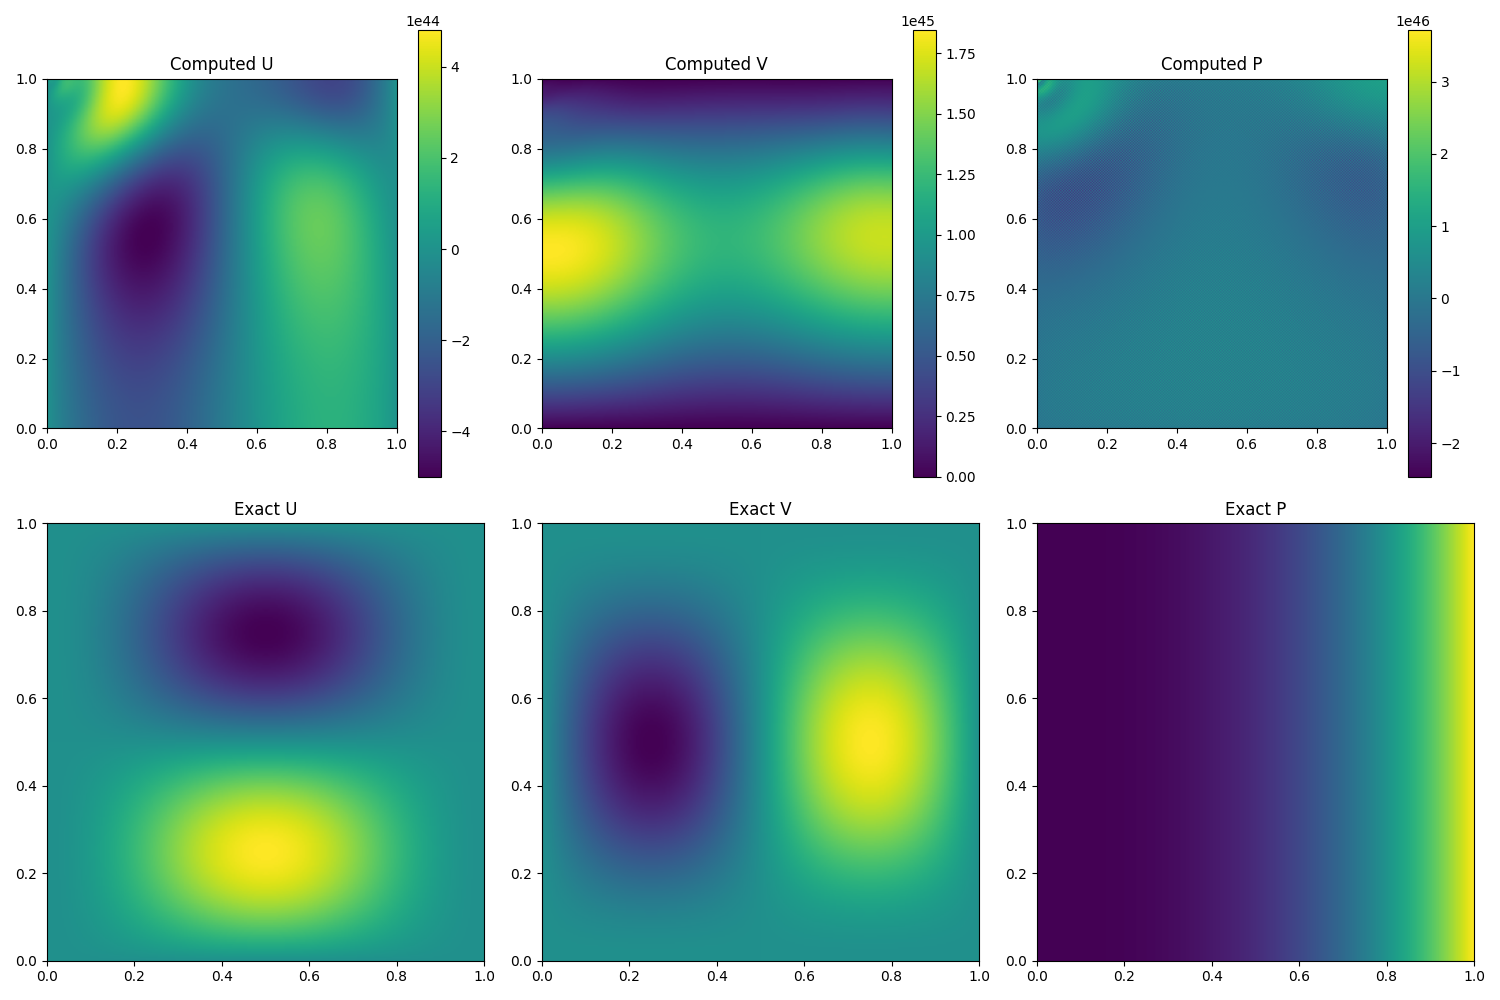
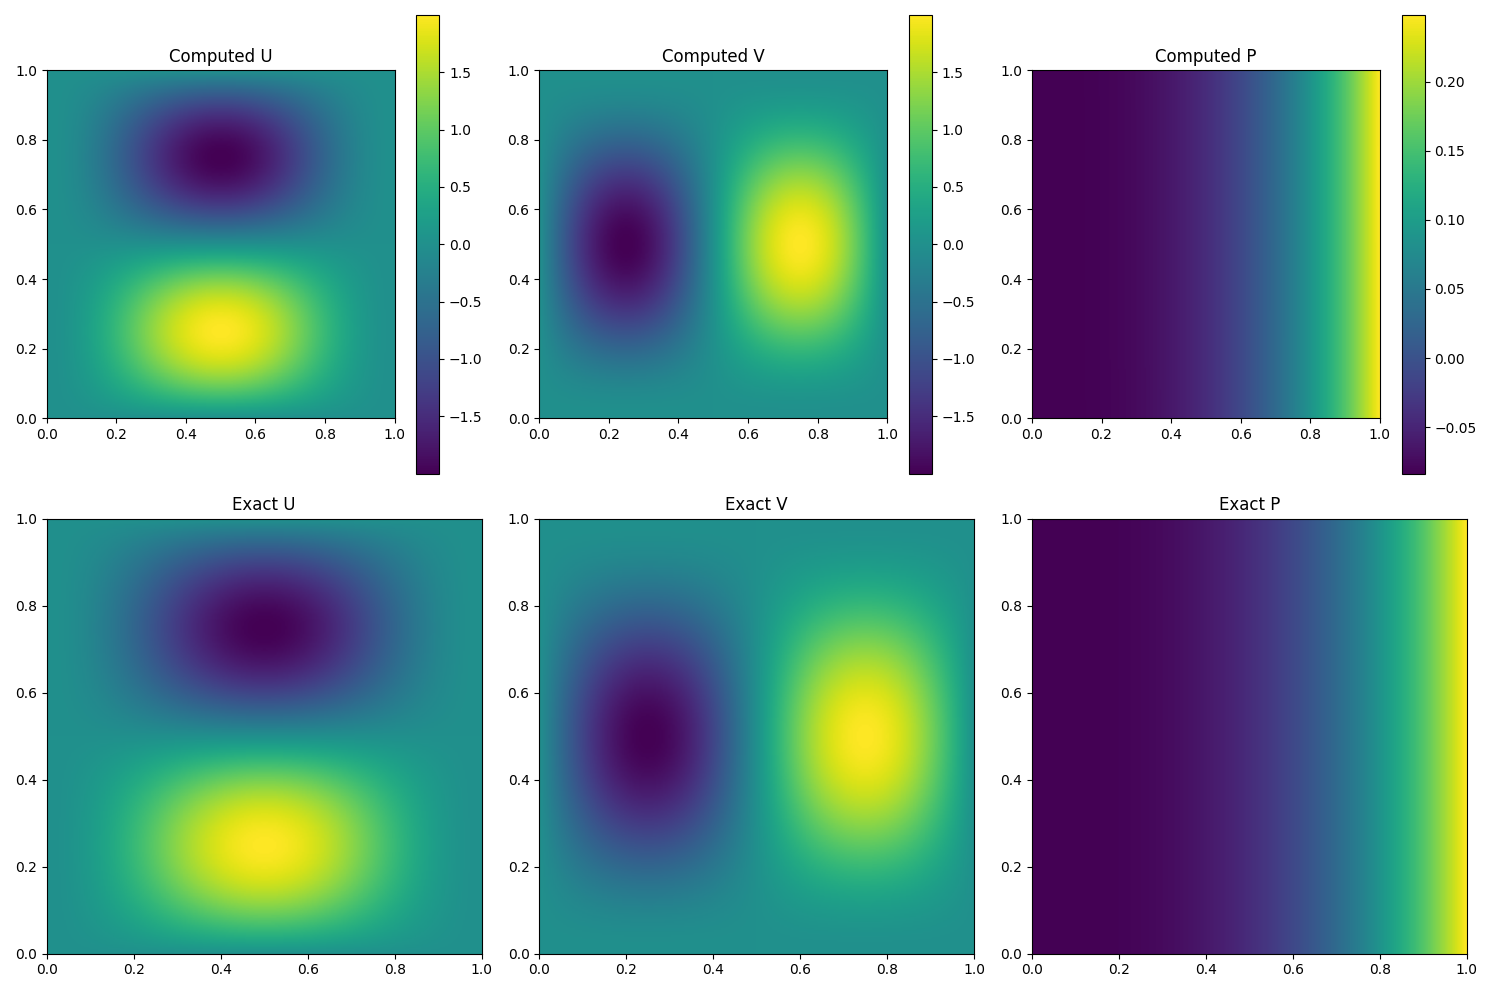
modified test code, now dgs is convergent

diff --git a/Smoother.py b/Smoother.py
@@ -463,7 +463,7 @@ def make_forced_problem(N):
     f += Xf_u**2
 
     # build g on v-face locations: g = -Delta v + dp/dy (dp/dy = 0 here)
-    g = -4.0 * np.pi**2 * (2.0 * np.cos(2.0*np.pi*Yf_v) - 1.0) * np.sin(2.0*np.pi*Xf_v)
+    g = 4.0 * np.pi**2 * (2.0 * np.cos(2.0*np.pi*Yf_v) - 1.0) * np.sin(2.0*np.pi*Xf_v)
 
     return {
         'u_exact_faces': u_exact_faces,
